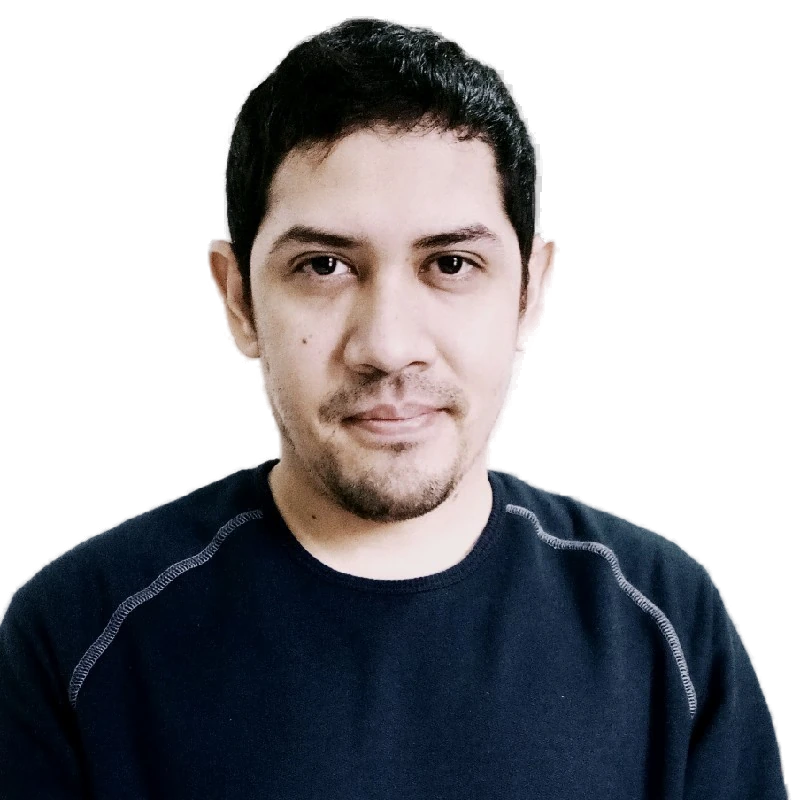
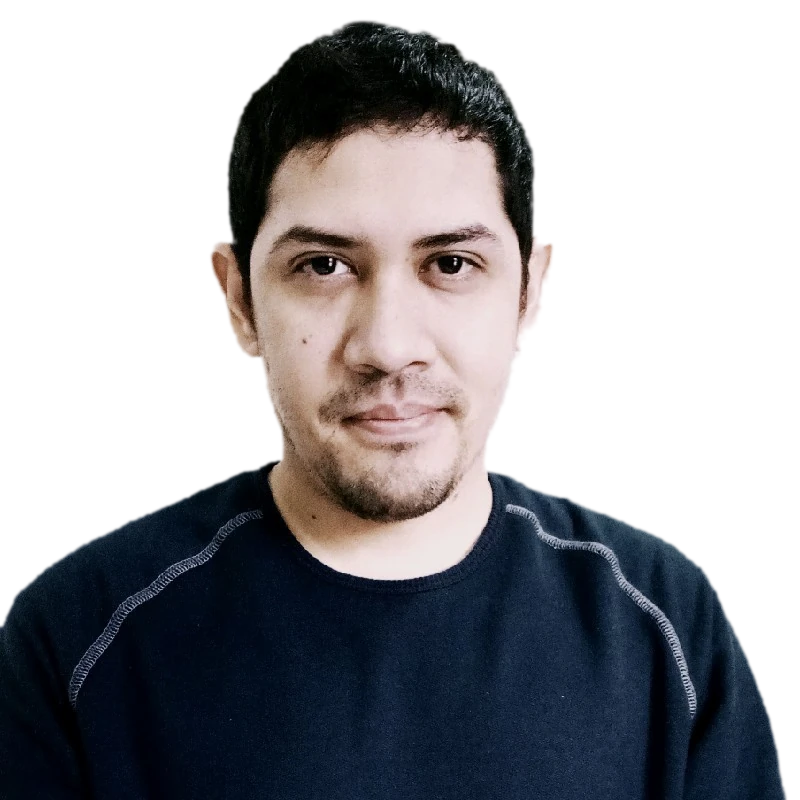
Hero con grafo interactivo, foto sin fondo sobre degradado nocturno y hover en trayectoria

diff --git a/src/styles/global.css b/src/styles/global.css
@@ -155,22 +155,29 @@ section { padding: 96px 0; }
 .menu-panel a { padding: 14px 4px; font-size: 18px; font-weight: 550; border-top: 1px solid var(--line); }
 .menu-panel a:first-child { border-top: 0; }
 
-/* Hero — usa el color de fondo de la foto y mantiene textos oscuros en ambos temas */
+/* Hero — grafo interactivo sobre degradado nocturno; textos claros en ambos temas */
 .hero {
-  --bg: #ebe8e7;
-  --bg-elev: #ffffff;
-  --ink: #111214;
-  --ink-2: #464951;
-  --ink-3: #62656d;
-  --line: #cfcbc9;
-  --chip: #dfdbd9;
-  --accent: #2b4eff;
-  --accent-ink: #ffffff;
-  background: var(--bg);
+  --bg: #070b1c;
+  --bg-elev: rgba(255, 255, 255, 0.1);
+  --ink: #f4f3ee;
+  --ink-2: #c3c8dc;
+  --ink-3: #98a0bc;
+  --line: rgba(255, 255, 255, 0.18);
+  --chip: rgba(255, 255, 255, 0.08);
+  --accent: #90a4ff;
+  --accent-ink: #070b1c;
+  position: relative;
+  isolation: isolate;
+  overflow: hidden;
+  background:
+    radial-gradient(60% 70% at 78% 42%, rgba(70, 100, 230, 0.28) 0%, rgba(70, 100, 230, 0) 70%),
+    radial-gradient(120% 100% at 20% 0%, #131f4a 0%, #0a1130 45%, #04060f 100%);
   color: var(--ink);
-  color-scheme: light;
+  color-scheme: dark;
   padding: 72px 0 64px;
 }
+.graph { position: absolute; inset: 0; width: 100%; height: 100%; z-index: -1; opacity: 0; transition: opacity 1.2s ease; pointer-events: none; }
+.graph.ready { opacity: 1; }
 .hero-grid { display: grid; grid-template-columns: 1.35fr 1fr; gap: 64px; align-items: center; }
 .eyebrow { display: inline-flex; align-items: center; gap: 10px; }
 .eyebrow::before { content: ''; width: 8px; height: 8px; border-radius: 50%; background: #22c55e; box-shadow: 0 0 0 4px color-mix(in srgb, #22c55e 25%, transparent); }
@@ -195,6 +202,10 @@ section { padding: 96px 0; }
 .loc { font-family: var(--mono); font-size: 12px; color: var(--ink-3); margin-left: 8px; }
 
 .portrait { position: relative; justify-self: end; width: 100%; max-width: 460px; }
+.portrait::before {
+  content: ''; position: absolute; inset: -8% -12% 0; z-index: -1; pointer-events: none;
+  background: radial-gradient(closest-side, rgba(120, 150, 255, 0.42), rgba(120, 150, 255, 0.12) 55%, rgba(120, 150, 255, 0) 100%);
+}
 .portrait .frame { aspect-ratio: 1 / 1; line-height: 0; }
 .portrait img {
   width: 100%; height: 100%; object-fit: contain; object-position: 50% 100%; display: block;
@@ -206,8 +217,9 @@ section { padding: 96px 0; }
 }
 .portrait .badge {
   position: absolute; left: -22px; bottom: 28px;
-  background: var(--bg-elev); border: 1px solid var(--line); border-radius: 14px;
-  padding: 12px 16px; box-shadow: 0 12px 30px rgba(0, 0, 0, 0.1);
+  background: rgba(14, 20, 48, 0.55); border: 1px solid var(--line); border-radius: 14px;
+  -webkit-backdrop-filter: blur(10px); backdrop-filter: blur(10px);
+  padding: 12px 16px; box-shadow: 0 12px 30px rgba(0, 0, 0, 0.35);
   font-size: 13px; line-height: 1.3; color: var(--ink);
 }
 .portrait .badge b { display: block; font-size: 22px; letter-spacing: -0.03em; }
@@ -237,21 +249,49 @@ section { padding: 96px 0; }
 .langs div span { font-family: var(--mono); font-size: 12px; color: var(--ink-3); }
 
 /* Experience */
-.timeline { margin-top: 40px; border-top: 1px solid var(--line); }
+.timeline { margin: 40px calc(var(--jp) * -1) 0; }
+.timeline .job:first-child { border-top: 1px solid var(--line); }
 .job {
   display: grid;
   grid-template-columns: 220px 1fr;
   gap: 40px;
-  padding: 36px 0;
+  padding: 36px var(--jp);
   border-bottom: 1px solid var(--line);
-  transition: background 0.25s;
+  position: relative;
 }
+.timeline { --jp: 24px; }
 .job .when { font-family: var(--mono); font-size: 13px; color: var(--ink-3); }
 .job .when b { display: block; color: var(--ink); font-weight: 500; }
 .job h3 { font-size: 26px; letter-spacing: -0.03em; font-weight: 650; }
 .job h3 small { font-family: var(--sans); font-size: 14px; font-weight: 400; color: var(--ink-3); letter-spacing: 0; margin-left: 8px; }
 .job .role { font-family: var(--mono); font-size: 12px; text-transform: uppercase; letter-spacing: 0.1em; color: var(--accent); margin: 6px 0 14px; }
 .job p { color: var(--ink-2); max-width: 70ch; margin-bottom: 18px; }
+
+/* Trayectoria: al pasar el mouse la tarjeta "sobresale" y las demás se atenúan */
+@media (hover: hover) {
+  .job h3 { transition: color 0.25s ease; }
+  .job::before {
+    content: ''; position: absolute; left: 0; top: 24px; bottom: 24px; width: 3px; border-radius: 3px;
+    background: var(--accent); transform: scaleY(0); transition: transform 0.35s ease;
+  }
+  .js .timeline .job.reveal {
+    transition: opacity 0.4s ease, transform 0.35s cubic-bezier(0.2, 0.8, 0.2, 1),
+      background-color 0.3s ease, box-shadow 0.35s ease, border-color 0.3s ease;
+  }
+  .timeline .job:hover,
+  .js .timeline .job.reveal.in:hover {
+    transform: translateY(-6px) scale(1.012);
+    background: var(--bg-elev);
+    border-color: transparent;
+    border-radius: 18px;
+    box-shadow: 0 22px 50px -18px rgba(15, 20, 50, 0.28), 0 0 0 1px var(--line);
+    z-index: 2;
+  }
+  .job:hover::before { transform: scaleY(1); }
+  .job:hover h3 { color: var(--accent); }
+  .js .timeline:hover .job.reveal.in:not(:hover) { opacity: 0.5; }
+  .job:hover .chip { border-color: color-mix(in srgb, var(--accent) 45%, var(--line)); }
+}
 
 /* Pillars */
 .pillars-grid { display: grid; grid-template-columns: repeat(2, 1fr); gap: 16px; margin-top: 40px; }
@@ -311,6 +351,7 @@ section { padding: 96px 0; }
   .stats-grid { grid-template-columns: repeat(2, 1fr); row-gap: 40px; }
   .stat:nth-child(3) { border-left: 0; padding-left: 0; }
   .job { grid-template-columns: 1fr; gap: 12px; }
+  .timeline { --jp: 16px; }
 }
 @media (max-width: 700px) {
   .hero-grid { grid-template-columns: 1fr; gap: 40px; }
